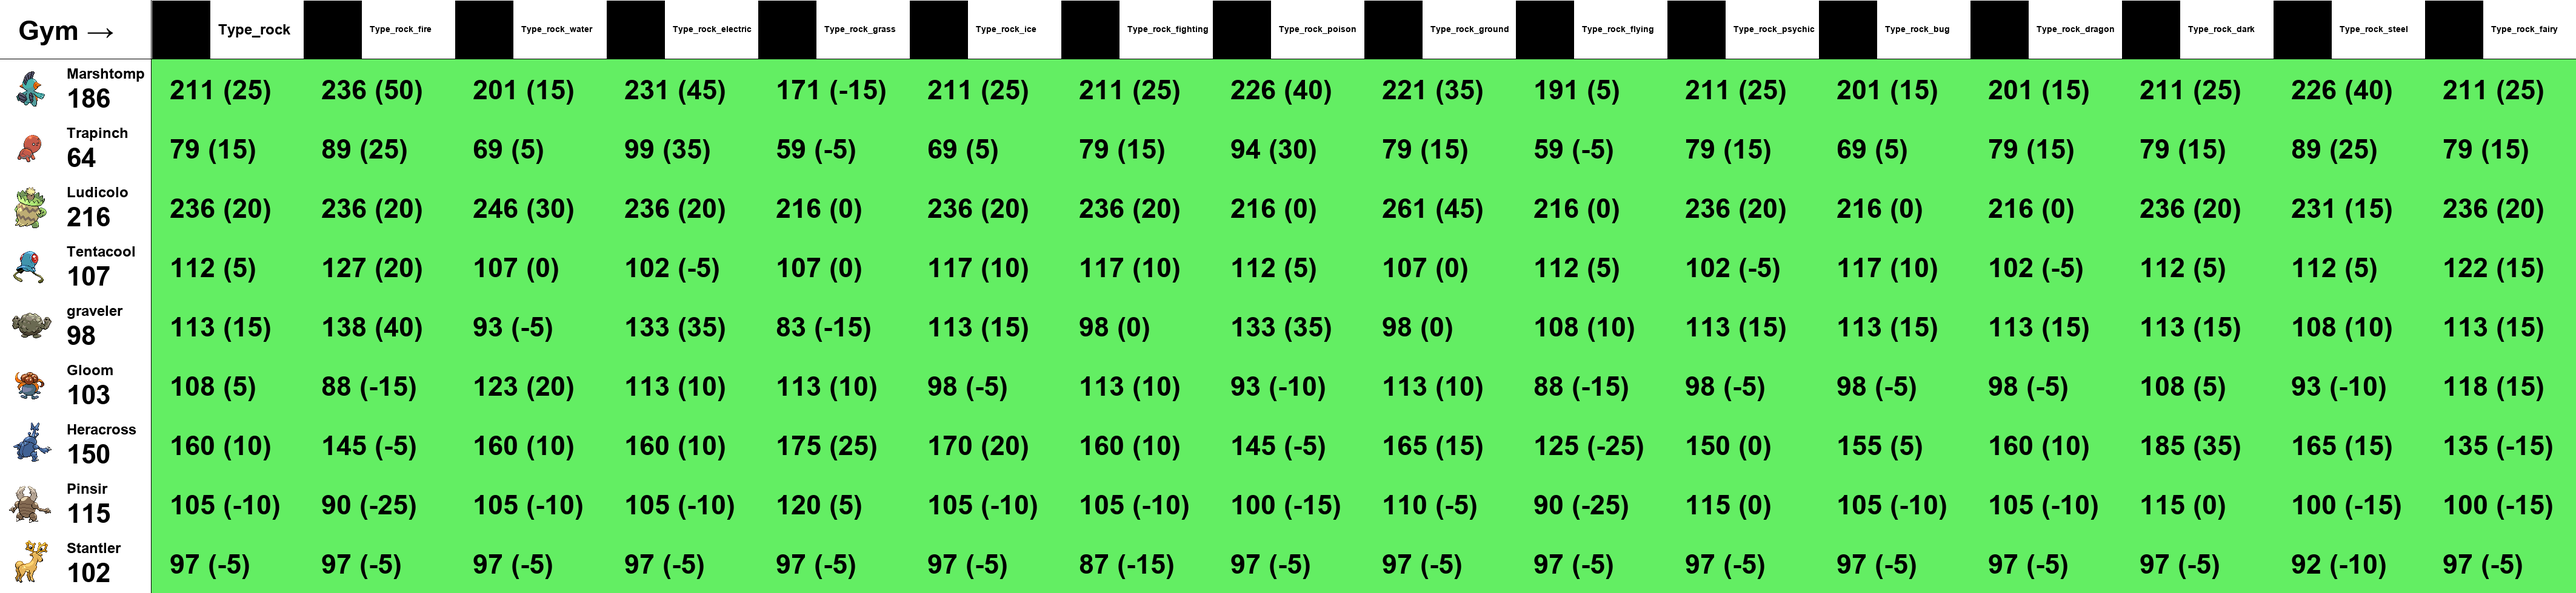
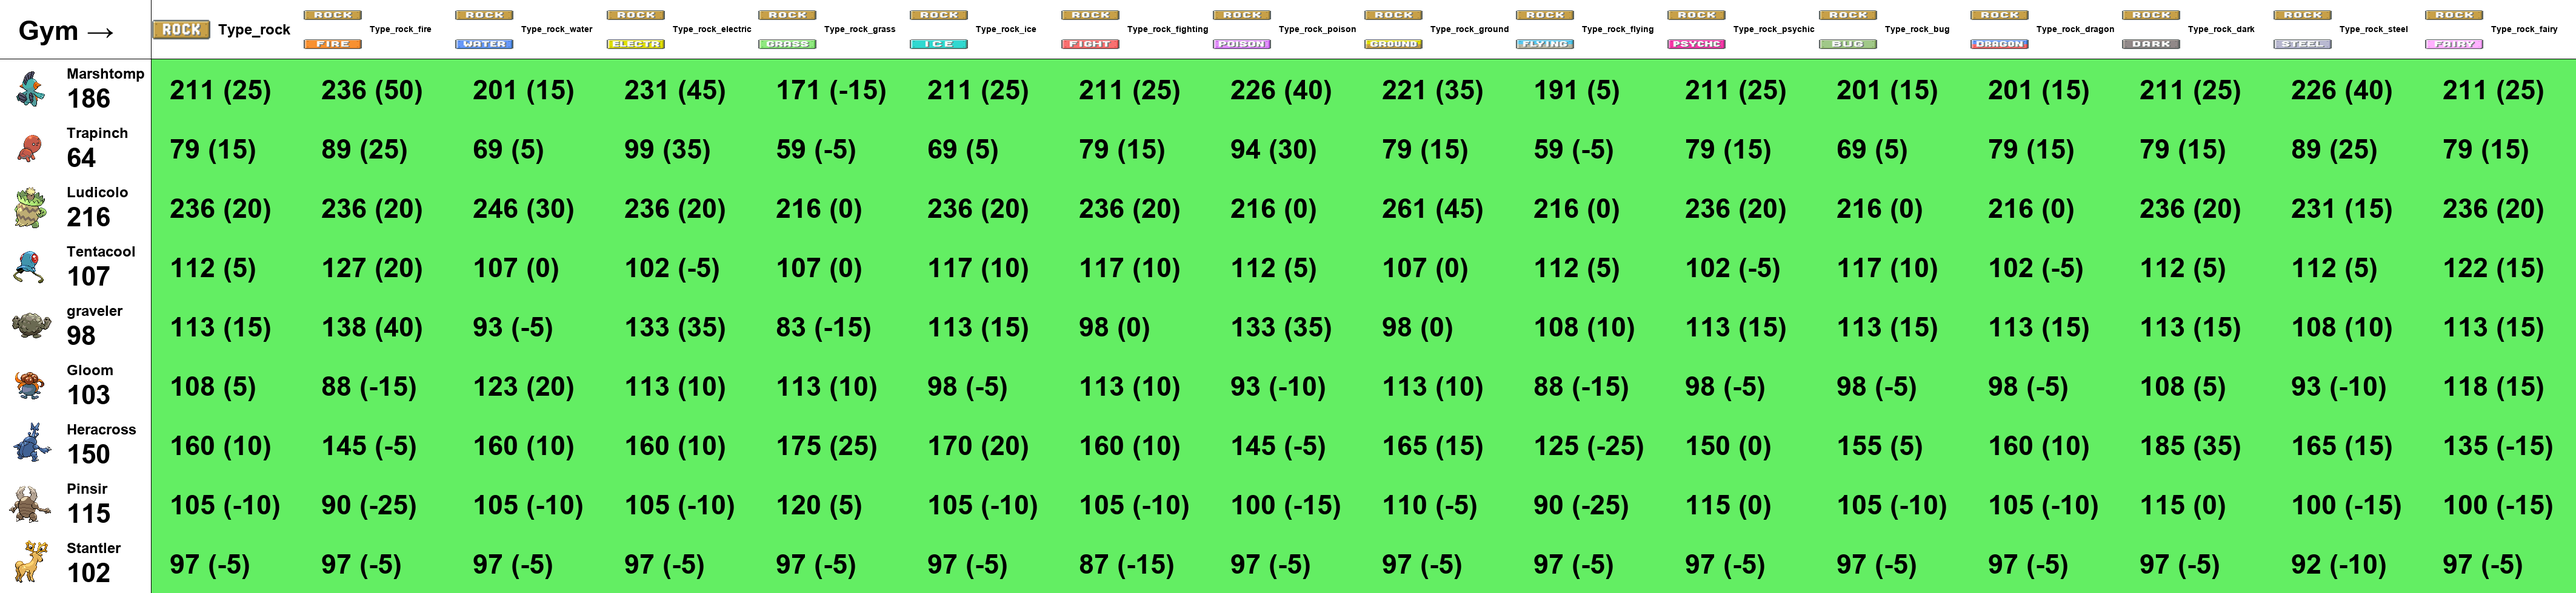
not finished, gym with types

diff --git a/home/MawileBot/src/poke_lib.py b/home/MawileBot/src/poke_lib.py
@@ -944,8 +944,7 @@ def create_pokemon_name_image(pokemon_name, front = True, shiny_or_default = 'de
     blank_image = Image.new('RGB', (250, 98), (255, 255, 255)) # Create a blank image (250x96) with white background
 
     sprite_image = Image.new('RGB', (96, 96), (0, 0, 0)).convert("RGBA")
-    try: # Import the Sprite
-        if 'Type_' not in pokemon_name:
+    try:
             pokemon = poke.get(name=pokemon_name.lower())
             if not front:
                 try:
@@ -958,30 +957,7 @@ def create_pokemon_name_image(pokemon_name, front = True, shiny_or_default = 'de
                 sprite_url = pokemon.sprites.front[shiny_or_default]
                 response = requests.get(sprite_url)
             sprite_image = Image.open(BytesIO(response.content)).convert("RGBA")  # Fetch the sprite imag
-        else:
-            type_parts = pokemon_name.lower().split('_')[1:]  # Remove 'Type' prefix
-            images = []
-
-            for type_name in type_parts:
-                img_path = ENV_PATH+f"/images/{type_name}.png"
-                img = Image.open(img_path).convert("RGBA")
-                images.append(img)
-
-            max_size = max(max(im.size) for im in images)
-            square_images = [
-                ImageOps.pad(im, (max_size, max_size), color="white") for im in images
-            ]
-
-            if len(square_images) == 1:
-                sprite_image = square_images[0]
-            elif len(square_images) == 2:
-                w, h = square_images[0].size
-                combined = Image.new("RGBA", (w, h * 2), "white")
-                combined.paste(square_images[0], (0, 0))
-                combined.paste(square_images[1], (0, h))
-                sprite_image = combined
     except:
-        print('ooooooooooooooooooooooooooooooo')
         pass
 
     sprite_image = sprite_image.resize((96, 96)) # Resize sprite if needed to fit the blank image (optional)
@@ -1013,46 +989,69 @@ def create_pokemon_name_image(pokemon_name, front = True, shiny_or_default = 'de
 
     return blank_image
 
+def create_type_name_image(pokemon_name, front = True, shiny_or_default = 'default', lines_left_top_right_bottom = (True,True,True,True)):
+    # Create base blank image
+    blank_image = Image.new('RGB', (250, 98), (255, 255, 255))  # White background
+
+    # Parse types
+    type_parts = pokemon_name.lower().split('_')[1:]  # e.g., ['fire'] or ['fire', 'flying']
+    type_images = []
+
+    # Load and resize each type image to 96x32
+    for type_name in type_parts:
+        img_path = ENV_PATH + f"/images/types/{type_name}.png"
+        img = Image.open(img_path).convert("RGBA")
+        resized = img.resize((96, 32), Image.Resampling.LANCZOS)
+        type_images.append(resized)
+
+    # Create container for the type icons (96x96, white background)
+    type_icon_image = Image.new("RGBA", (96, 96), "white")
+
+    # Paste type images centered vertically
+    if len(type_images) == 1:
+        type_icon_image.paste(type_images[0], (0, (96 - 32) // 2), type_images[0])
+    elif len(type_images) == 2:
+        type_icon_image.paste(type_images[0], (0, (96 - 64) // 2), type_images[0])
+        type_icon_image.paste(type_images[1], (0, (96 - 64) // 2 + 32), type_images[1])
+    else:
+        raise ValueError("Only one or two types are supported.")
+
+    # Paste the type icon image onto the left side of the blank image
+    blank_image.paste(type_icon_image, (1, 1), type_icon_image)
+
+
+    draw = ImageDraw.Draw(blank_image)  # Prepare to add text
+
+    border_width = 1
+    image_width, image_height = blank_image.size
+    if lines_left_top_right_bottom[1]:
+        draw.line([(0, 0), (image_width, 0)], fill="black", width=border_width) #Draw top line
+    if lines_left_top_right_bottom[3]:
+        draw.line([(0, image_height - 1), (image_width, image_height - 1)], fill="black", width=border_width) # Draw bottom line
+    if lines_left_top_right_bottom[0]:
+        draw.line([(0, 0), (0, image_height)], fill="black", width=border_width) # Draw left line
+    if lines_left_top_right_bottom[2]:
+        draw.line([(image_width - 1, 0), (image_width - 1, image_height)], fill="black", width=border_width) # Draw right line
+
+    return blank_image
+
 def create_pokemon_image(pokemon_name, power, front = False, shiny_or_default = 'default', lines_left_top_right_bottom = (True,True,True,True)):
     blank_image = Image.new('RGB', (250, 98), (255, 255, 255))  # Create a blank image (250x98) with white background
 
     sprite_image = Image.new('RGB', (96, 96), (0, 0, 0)).convert("RGBA") # Default Sprite
     try: # Import the Sprite
-        if 'Type_' not in pokemon_name:
-            pokemon = poke.get(name=pokemon_name.lower())
-            if not front:
-                try:
-                    sprite_url = pokemon.sprites.back[shiny_or_default]
-                    response = requests.get(sprite_url)
-                except:
-                    sprite_url = pokemon.sprites.front[shiny_or_default]
-                    response = requests.get(sprite_url)
-            else:
+        pokemon = poke.get(name=pokemon_name.lower())
+        if not front:
+            try:
+                sprite_url = pokemon.sprites.back[shiny_or_default]
+                response = requests.get(sprite_url)
+            except:
                 sprite_url = pokemon.sprites.front[shiny_or_default]
                 response = requests.get(sprite_url)
-            sprite_image = Image.open(BytesIO(response.content)).convert("RGBA")  # Fetch the sprite imag
         else:
-            type_parts = pokemon_name.lower().split('_')[1:]  # Remove 'Type' prefix
-            images = []
-
-            for type_name in type_parts:
-                img_path = ENV_PATH+f"/images/{type_name}.png"
-                img = Image.open(img_path).convert("RGBA")
-                images.append(img)
-
-            max_size = max(max(im.size) for im in images)
-            square_images = [
-                ImageOps.pad(im, (max_size, max_size), color="white") for im in images
-            ]
-
-            if len(square_images) == 1:
-                sprite_image = square_images[0]
-            elif len(square_images) == 2:
-                w, h = square_images[0].size
-                combined = Image.new("RGBA", (w, h * 2), "white")
-                combined.paste(square_images[0], (0, 0))
-                combined.paste(square_images[1], (0, h))
-                sprite_image = combined
+            sprite_url = pokemon.sprites.front[shiny_or_default]
+            response = requests.get(sprite_url)
+        sprite_image = Image.open(BytesIO(response.content)).convert("RGBA")  # Fetch the sprite imag
     except:
         pass
 
@@ -1126,7 +1125,10 @@ def create_pokemon_collage(df, type = 'gym', path=None, enemy_powers=None):
                 pokemon_name = column_name.split(' ')[0]
             except:
                 pokemon_name = column_name
-            individual_image = create_pokemon_name_image(pokemon_name,True,randomly_shiny(),lines_left_top_right_bottom = (False,False,False,True))  # Create the Pokémon image
+            if 'Type_' not in pokemon_name:
+                individual_image = create_pokemon_name_image(pokemon_name,True,randomly_shiny(),lines_left_top_right_bottom = (False,False,False,True))  # Create the Pokémon image
+            else:
+                individual_image = create_type_name_image(pokemon_name,True,lines_left_top_right_bottom = (False,False,False,True))  # Create the Pokémon image
         collage_image.paste(individual_image, position)
         for index in range(num_rows):
             scaled_power = int(df[column_name][index].split(' ')[0].replace('(','').replace(')',''))
